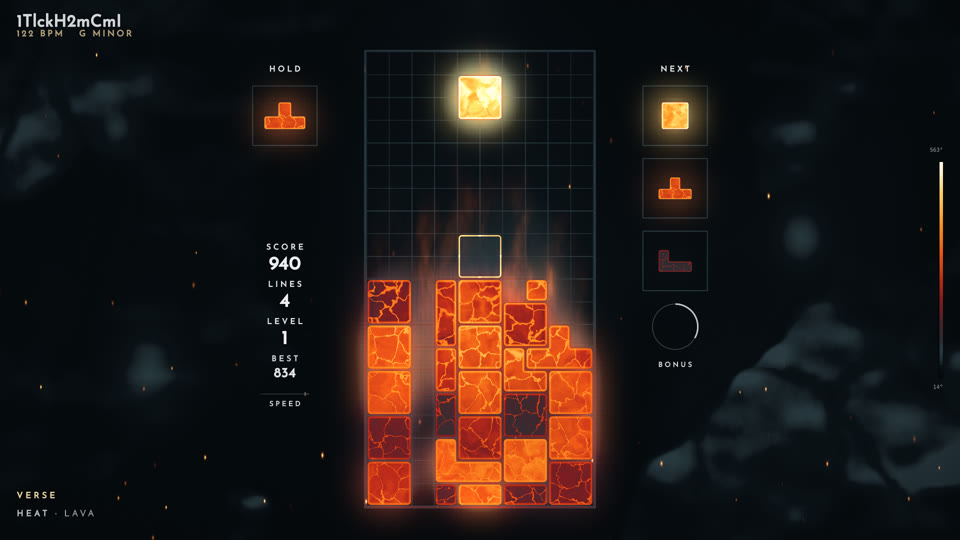
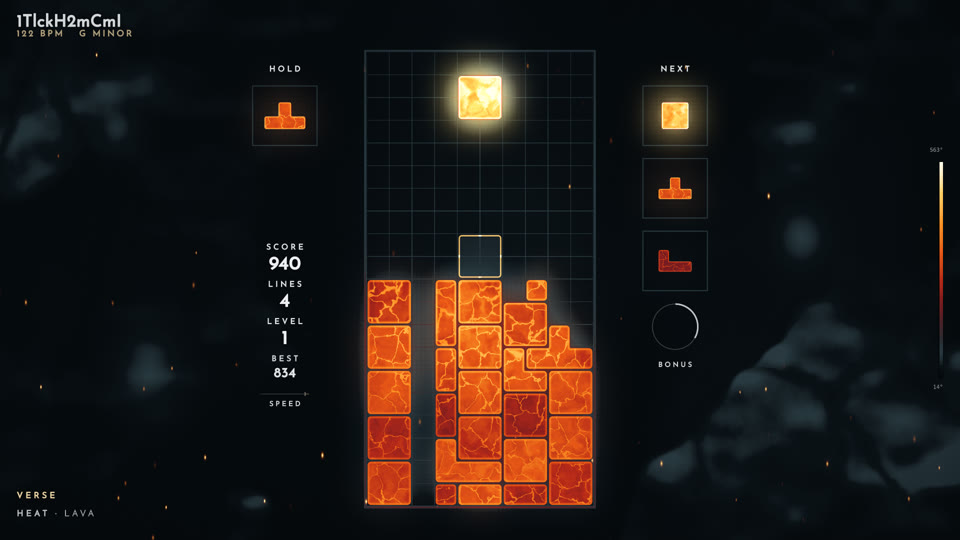
HEAT: flames down to a faint haze, cooled pieces keep a clear body
The flame tongues are much fainter and thinner, only just above the hottest faces,
up the well's walls only where they are very hot; the warm air's haze halved, so the
stack and the grid read clear. The seven materials settle higher in the colormap
(its middle, well above the cave and the glass): a cooled piece keeps a visible body
in every variant (in LAVA a maroon to red crust with faintly lit fissures). The
bloom comes from hot things only.

Claude-Session: https://claude.ai/code/session_01TRpCVe8qgHvBr5qwovmpX7

diff --git a/src/universes/heat/heat.cpp b/src/universes/heat/heat.cpp
@@ -9,7 +9,7 @@
 // (wide when warm, hairlines when cold); a molten edge glows round each piece, a dark seam parts it from the others.
 // The heat is simulated: it conducts between neighbouring cells (a fresh piece warms the old ones under it) and into
 // the well's walls and floor, and leaves through the exposed faces into the air, where it rises, sways and fades:
-// flames lick up from the hot faces (and up the outside of the warmed walls), the air shimmers above them, hot
+// a faint haze of flame tongues rises just above the hottest faces (up the outside of very hot walls), the air shimmers above them, hot
 // things bloom. The pieces are made of seven materials of different emissivity: each type settles to its own band of
 // the colormap when cold (the camera reads the material, not only the heat). The falling piece is the hottest thing
 // on screen, the ghost a crisp contour at a mid-hot temperature over a faint fill; the queue warms as it comes (the next piece already white hot).
@@ -100,8 +100,9 @@ const VariantDef VARIANTS[] = {
 constexpr int VARIANT_COUNT = (int)(sizeof(VARIANTS) / sizeof(VARIANTS[0]));
 
 // The seven materials (I O T S Z J L): the temperature each settles to when the stack's heat has left it (the
-// camera reads emissivity), spread over the colormap's cold half.
-const float BASE[7] = {0.54f, 0.21f, 0.41f, 0.27f, 0.47f, 0.14f, 0.34f};
+// camera reads emissivity), spread over the colormap's middle, well above the cave and the glass: a cooled piece
+// keeps a clear body (in LAVA a maroon to red crust, its fissures still faintly lit).
+const float BASE[7] = {0.5f, 0.355f, 0.445f, 0.38f, 0.47f, 0.32f, 0.41f};
 
 // The camera's reading of a temperature, in degrees.
 float degrees(float d) { return 14.f + 520.f * std::pow(std::max(0.f, d), 1.6f); }
@@ -304,11 +305,11 @@ void HeatUniverse::updateAir(const Game& g, float dt) {
             if (x > 0 && !filled(x - 1, y)) splatAir(p.x - 0.55f, p.y, 0.f, h * kSide * dt);
             if (x < Game::W - 1 && !filled(x + 1, y)) splatAir(p.x + 0.55f, p.y, 0.f, h * kSide * dt);
         }
-    // the well's warmed walls give off heat outside too (flames lick up the outside of the well beside a hot stack)
+    // the well's walls give off heat outside too, once very hot
     for (int y = Game::HIDDEN; y < Game::H; y++) {
         const float wy = layout::cellPos(0.f, (float)y).y;
-        splatAir(-5.3f, wy, 0.f, wallL_[y] * kSide * dt);
-        splatAir(5.3f, wy, 0.f, wallR_[y] * kSide * dt);
+        splatAir(-5.3f, wy, 0.f, std::max(0.f, wallL_[y] - 0.5f) * kSide * dt);
+        splatAir(5.3f, wy, 0.f, std::max(0.f, wallR_[y] - 0.5f) * kSide * dt);
     }
     if (g.hasPiece() && !g.over()) {
         int cells[4][2];
@@ -1053,13 +1054,13 @@ void HeatUniverse::render(const Frame& f, GLuint fbo) {
     set1f(progBg_, "uTime", worldTime_);
     set1f(progBg_, "uSeed", (float)(seed_ % 1000) * 0.137f);
     set1f(progBg_, "uWall", V.wall * (1.f - 0.25f * (1.f - wm)) + 0.01f * wp);
-    set1f(progBg_, "uAirGain", (0.06f + 0.06f * saturate(warm) + 0.06f * flare_ + 0.06f * quadFlash_) * (1.f - 0.5f * over_));
+    set1f(progBg_, "uAirGain", (0.03f + 0.03f * saturate(warm) + 0.06f * flare_ + 0.06f * quadFlash_) * (1.f - 0.5f * over_));
     set1f(progBg_, "uShimmer", 0.5f + 0.7f * saturate(warm));
     set1f(progBg_, "uGrain", V.grain);
     set1f(progBg_, "uWallHeat", 0.45f);
     set1f(progBg_, "uWell", bare ? 0.f : 1.f);
     set1f(progBg_, "uVig", 0.32f);
-    set1f(progBg_, "uFlame", (0.38f + 0.12f * saturate(warm) + 0.15f * flare_) * (1.f - over_));
+    set1f(progBg_, "uFlame", (0.16f + 0.05f * saturate(warm) + 0.06f * flare_) * (1.f - over_));
     set1f(progBg_, "uEmbers", (0.55f + 0.45f * saturate(warm) + 0.8f * dropAmt_ * wp) * (1.f - 0.7f * over_));
     set1f(progBg_, "uLava", dropAmt_ * wp * (1.f - over_));
     {

diff --git a/src/universes/heat/shaders.hpp b/src/universes/heat/shaders.hpp
@@ -169,7 +169,7 @@ void main() {
     // (light, not temperature: they glow in the camera's hot colors and fade to the dark, see MAP_FS)
     vec2 fp = vec2(ws.x * 1.4, ws.y * 0.4 - uTime * 1.4);
     float tongue = fbm(fp + vec2(0.9 * fbm(fp * 0.7 + vec2(0.0, uTime * 0.3)), 0.0));
-    float fire = smoothstep(0.3, 1.0, (1.0 - exp(-a * 8.0)) * (0.1 + 1.3 * tongue));
+    float fire = smoothstep(0.55, 1.05, (1.0 - exp(-a * 6.0)) * (0.1 + 1.3 * tongue));
     float light = uFlame * fire * (0.6 + 0.6 * fire);
     // the drop wakes the cave: lava glows in the cracks between the rock's facets, slowly breathing, and the smoke
     // is lit warm from below
@@ -342,7 +342,7 @@ void main() {
     vec3 c = mix(lut(t, 0.25), lut(t, 0.75), uMix);
     // the lens's bloom: hot things bleed their own color around them
     float tg = clamp((G.r / max(G.g, 1e-3) - uLo) / max(uHi - uLo, 1e-3), 0.0, 1.0) * (1.0 - uCool);
-    float bloom = G.g * smoothstep(0.1, 0.8, tg) * uBloom * (1.0 - 0.85 * clamp(T.g, 0.0, 1.0));
+    float bloom = G.g * smoothstep(0.45, 0.9, tg) * uBloom * (1.0 - 0.85 * clamp(T.g, 0.0, 1.0));
     bloom *= 1.0 - 0.7 * smoothstep(0.55, 0.95, G.g); // (inside the stack the seams between pieces stay dark)
     c += mix(lut(tg, 0.25), lut(tg, 0.75), uMix) * bloom;
     // the flames and the sparks: light in the hot colors, the brightest the hottest

diff --git a/docs/universes.md b/docs/universes.md
@@ -170,7 +170,7 @@ A contour map whose terrain is the stack (code in `src/universes/topography/`). 
 
 ![HEAT](universes/heat.jpg)
 
-The stack seen through a thermal camera, as a cinematic shot of molten rock in a volcanic cave (code in `src/universes/heat/`). The frame is one thermal image: the cave, the air and the pieces are written as temperatures into a float target and mapped through the camera's colormap; the flames and the sparks are light beside it, in the colormap's hot colors (they fade to the dark, not through its cold colors), and hot things bloom in their own colors. Every piece lands white hot and cools down through the colormap, so the stack shows its own history as temperature. The pieces are lava: hot, a piece is liquid, slow swirls flowing in it (one lava continuous over the piece's cells, kept by each cell as it moves down); cooling, a dark crust of plates forms on it, cracked by fissures that glow with the heat underneath (wide and bright when warm, hairlines when cold); a molten edge glows round each piece and a dark seam parts it from its neighbours, so the pieces stay apart. The heat is simulated on the 10 × 22 grid: it conducts between neighbouring locked cells (a fresh piece warms the old ones under it), into the well's walls and floor (thin frames that warm where the stack touches them), and leaves through the exposed faces into the air, a coarse grid over the whole view where it rises, sways, spreads and fades: faint, translucent flames lick up from the stack's hot faces (the stack and the grid read through them; and up the outside of the well's warmed walls), a warm column stands over it, and the cave shimmers behind the hot air. The seven types are seven materials of different emissivity, so each settles to its own band of the colormap when its heat has gone (J the coldest, then O, S, L, T, Z, I the warmest). The falling piece is the hottest thing on screen; the ghost is a clear contour: a crisp thin line of the piece's outline at a mid-hot temperature (the colormap's warm color, readable over the dark glass in every variant and through the drop), over a very faint fill. The queue warms as it comes: the next piece already white hot, the second warm, the third cold (its material's band shows); the held piece is kept warm. The cave: great rock walls in deep shadow around a dark hollow, their faceted faces catching a faint light from above, quiet behind the HUD columns, smoke drifting up, sparks rising (more near the floor, more in warm parts), two or three lava glows deep in the rock. The well is dark glass etched with the cells' grid, in a thin frame warmed where the stack touches it; the hold and each next piece sit in their own thin-framed box of the same glass. The camera's overlay is restrained: a thin scale bar on the right edge with the range in degrees, the bonus gauge as a thin ring whose charge is drawn in the hot color, the lettering in Noto Sans Mono. The song is the room's weather, with the camera's auto-range: a break or a calm part is cold and quiet (a wide range, cold far shapes, still air, pieces losing their heat faster); a chorus is warmer (the range narrows, the far shapes warm up, the air rises faster, and at the peak a bubble of hot air leaves the stack with the kicks, alternating sides, while a far shape warms on each bar). The drop flares: on its downbeat the whole stack flashes hot and cools over seconds, a sheet of hot air leaves its top, and the camera switches to another colormap for the whole drop (back slowly afterwards); the camera compresses its highlights through the drop, so the stack tops out bright orange-yellow with its swirls, fissures and seams still showing (no white-out), and the drop's energy goes to the cave instead: lava glowing in the cracks of the rock, slowly breathing, the smoke lit warm from below, many more sparks. A lock is the piece landing white hot; a hard drop also heats the cells it hits and pushes a breath of hot air out at the contact. A cleared row vents its heat: its blocks cool and fade out in a third of a second (at the real speed even in slow motion, nothing drawn over the row), the heat passes into the cells above it (they glow where the row was) and a plume of hot air rises out of the stack. A quad is an updraft that warms the whole stack. Slow motion is the camera's isotherm mode: everything grey but the hottest band. Game over is the stack cooling into the room from the top down. Four cameras, each with its drop colormap: IRONBOW (drop: RAINBOW), ARCTIC (blues and cyans, the heat in gold: an ice cave, the lava turned to glowing ice; drop: LAVA), WHITE HOT (grey: a monochrome film; drop: IRONBOW) and LAVA (the cave's blue-greys, then wine, red, orange, yellow: the molten rock; drop: GLOW, black-red-yellow hot metal) (`--universe "heat:arctic"`). It also takes the FORGE idea of the roadmap (glowing pieces darkening as they cool). Cost: the heat and the air (~150 × 85) on the CPU, two full-screen passes and a quarter-resolution blur (~0.5 ms of GPU at 1080p). Its HUD font is Noto Sans Mono (a subset, SIL Open Font License, `src/universes/heat/OFL-NotoSansMono.txt`).
+The stack seen through a thermal camera, as a cinematic shot of molten rock in a volcanic cave (code in `src/universes/heat/`). The frame is one thermal image: the cave, the air and the pieces are written as temperatures into a float target and mapped through the camera's colormap; the flames and the sparks are light beside it, in the colormap's hot colors (they fade to the dark, not through its cold colors), and hot things bloom in their own colors. Every piece lands white hot and cools down through the colormap, so the stack shows its own history as temperature. The pieces are lava: hot, a piece is liquid, slow swirls flowing in it (one lava continuous over the piece's cells, kept by each cell as it moves down); cooling, a dark crust of plates forms on it, cracked by fissures that glow with the heat underneath (wide and bright when warm, hairlines when cold); a molten edge glows round each piece and a dark seam parts it from its neighbours, so the pieces stay apart. The heat is simulated on the 10 × 22 grid: it conducts between neighbouring locked cells (a fresh piece warms the old ones under it), into the well's walls and floor (thin frames that warm where the stack touches them), and leaves through the exposed faces into the air, a coarse grid over the whole view where it rises, sways, spreads and fades: a faint, thin heat haze of flame tongues rises just above the hottest faces (behind the pieces, the grid clear through it; up the outside of the well only where its walls are very hot), a warm column stands over it, and the cave shimmers behind the hot air. The seven types are seven materials of different emissivity, so each settles to its own band of the colormap when its heat has gone (J the coldest, then O, S, L, T, Z, I the warmest), all in the colormap's middle, well above the cave and the glass: a cooled piece keeps a clear body (in LAVA a maroon to red crust, its fissures still faintly lit). The falling piece is the hottest thing on screen; the ghost is a clear contour: a crisp thin line of the piece's outline at a mid-hot temperature (the colormap's warm color, readable over the dark glass in every variant and through the drop), over a very faint fill. The queue warms as it comes: the next piece already white hot, the second warm, the third cold (its material's band shows); the held piece is kept warm. The cave: great rock walls in deep shadow around a dark hollow, their faceted faces catching a faint light from above, quiet behind the HUD columns, smoke drifting up, sparks rising (more near the floor, more in warm parts), two or three lava glows deep in the rock. The well is dark glass etched with the cells' grid, in a thin frame warmed where the stack touches it; the hold and each next piece sit in their own thin-framed box of the same glass. The camera's overlay is restrained: a thin scale bar on the right edge with the range in degrees, the bonus gauge as a thin ring whose charge is drawn in the hot color, the lettering in Noto Sans Mono. The song is the room's weather, with the camera's auto-range: a break or a calm part is cold and quiet (a wide range, cold far shapes, still air, pieces losing their heat faster); a chorus is warmer (the range narrows, the far shapes warm up, the air rises faster, and at the peak a bubble of hot air leaves the stack with the kicks, alternating sides, while a far shape warms on each bar). The drop flares: on its downbeat the whole stack flashes hot and cools over seconds, a sheet of hot air leaves its top, and the camera switches to another colormap for the whole drop (back slowly afterwards); the camera compresses its highlights through the drop, so the stack tops out bright orange-yellow with its swirls, fissures and seams still showing (no white-out), and the drop's energy goes to the cave instead: lava glowing in the cracks of the rock, slowly breathing, the smoke lit warm from below, many more sparks. A lock is the piece landing white hot; a hard drop also heats the cells it hits and pushes a breath of hot air out at the contact. A cleared row vents its heat: its blocks cool and fade out in a third of a second (at the real speed even in slow motion, nothing drawn over the row), the heat passes into the cells above it (they glow where the row was) and a plume of hot air rises out of the stack. A quad is an updraft that warms the whole stack. Slow motion is the camera's isotherm mode: everything grey but the hottest band. Game over is the stack cooling into the room from the top down. Four cameras, each with its drop colormap: IRONBOW (drop: RAINBOW), ARCTIC (blues and cyans, the heat in gold: an ice cave, the lava turned to glowing ice; drop: LAVA), WHITE HOT (grey: a monochrome film; drop: IRONBOW) and LAVA (the cave's blue-greys, then wine, red, orange, yellow: the molten rock; drop: GLOW, black-red-yellow hot metal) (`--universe "heat:arctic"`). It also takes the FORGE idea of the roadmap (glowing pieces darkening as they cool). Cost: the heat and the air (~150 × 85) on the CPU, two full-screen passes and a quarter-resolution blur (~0.5 ms of GPU at 1080p). Its HUD font is Noto Sans Mono (a subset, SIL Open Font License, `src/universes/heat/OFL-NotoSansMono.txt`).
 
 ## BLUEPRINT
 
